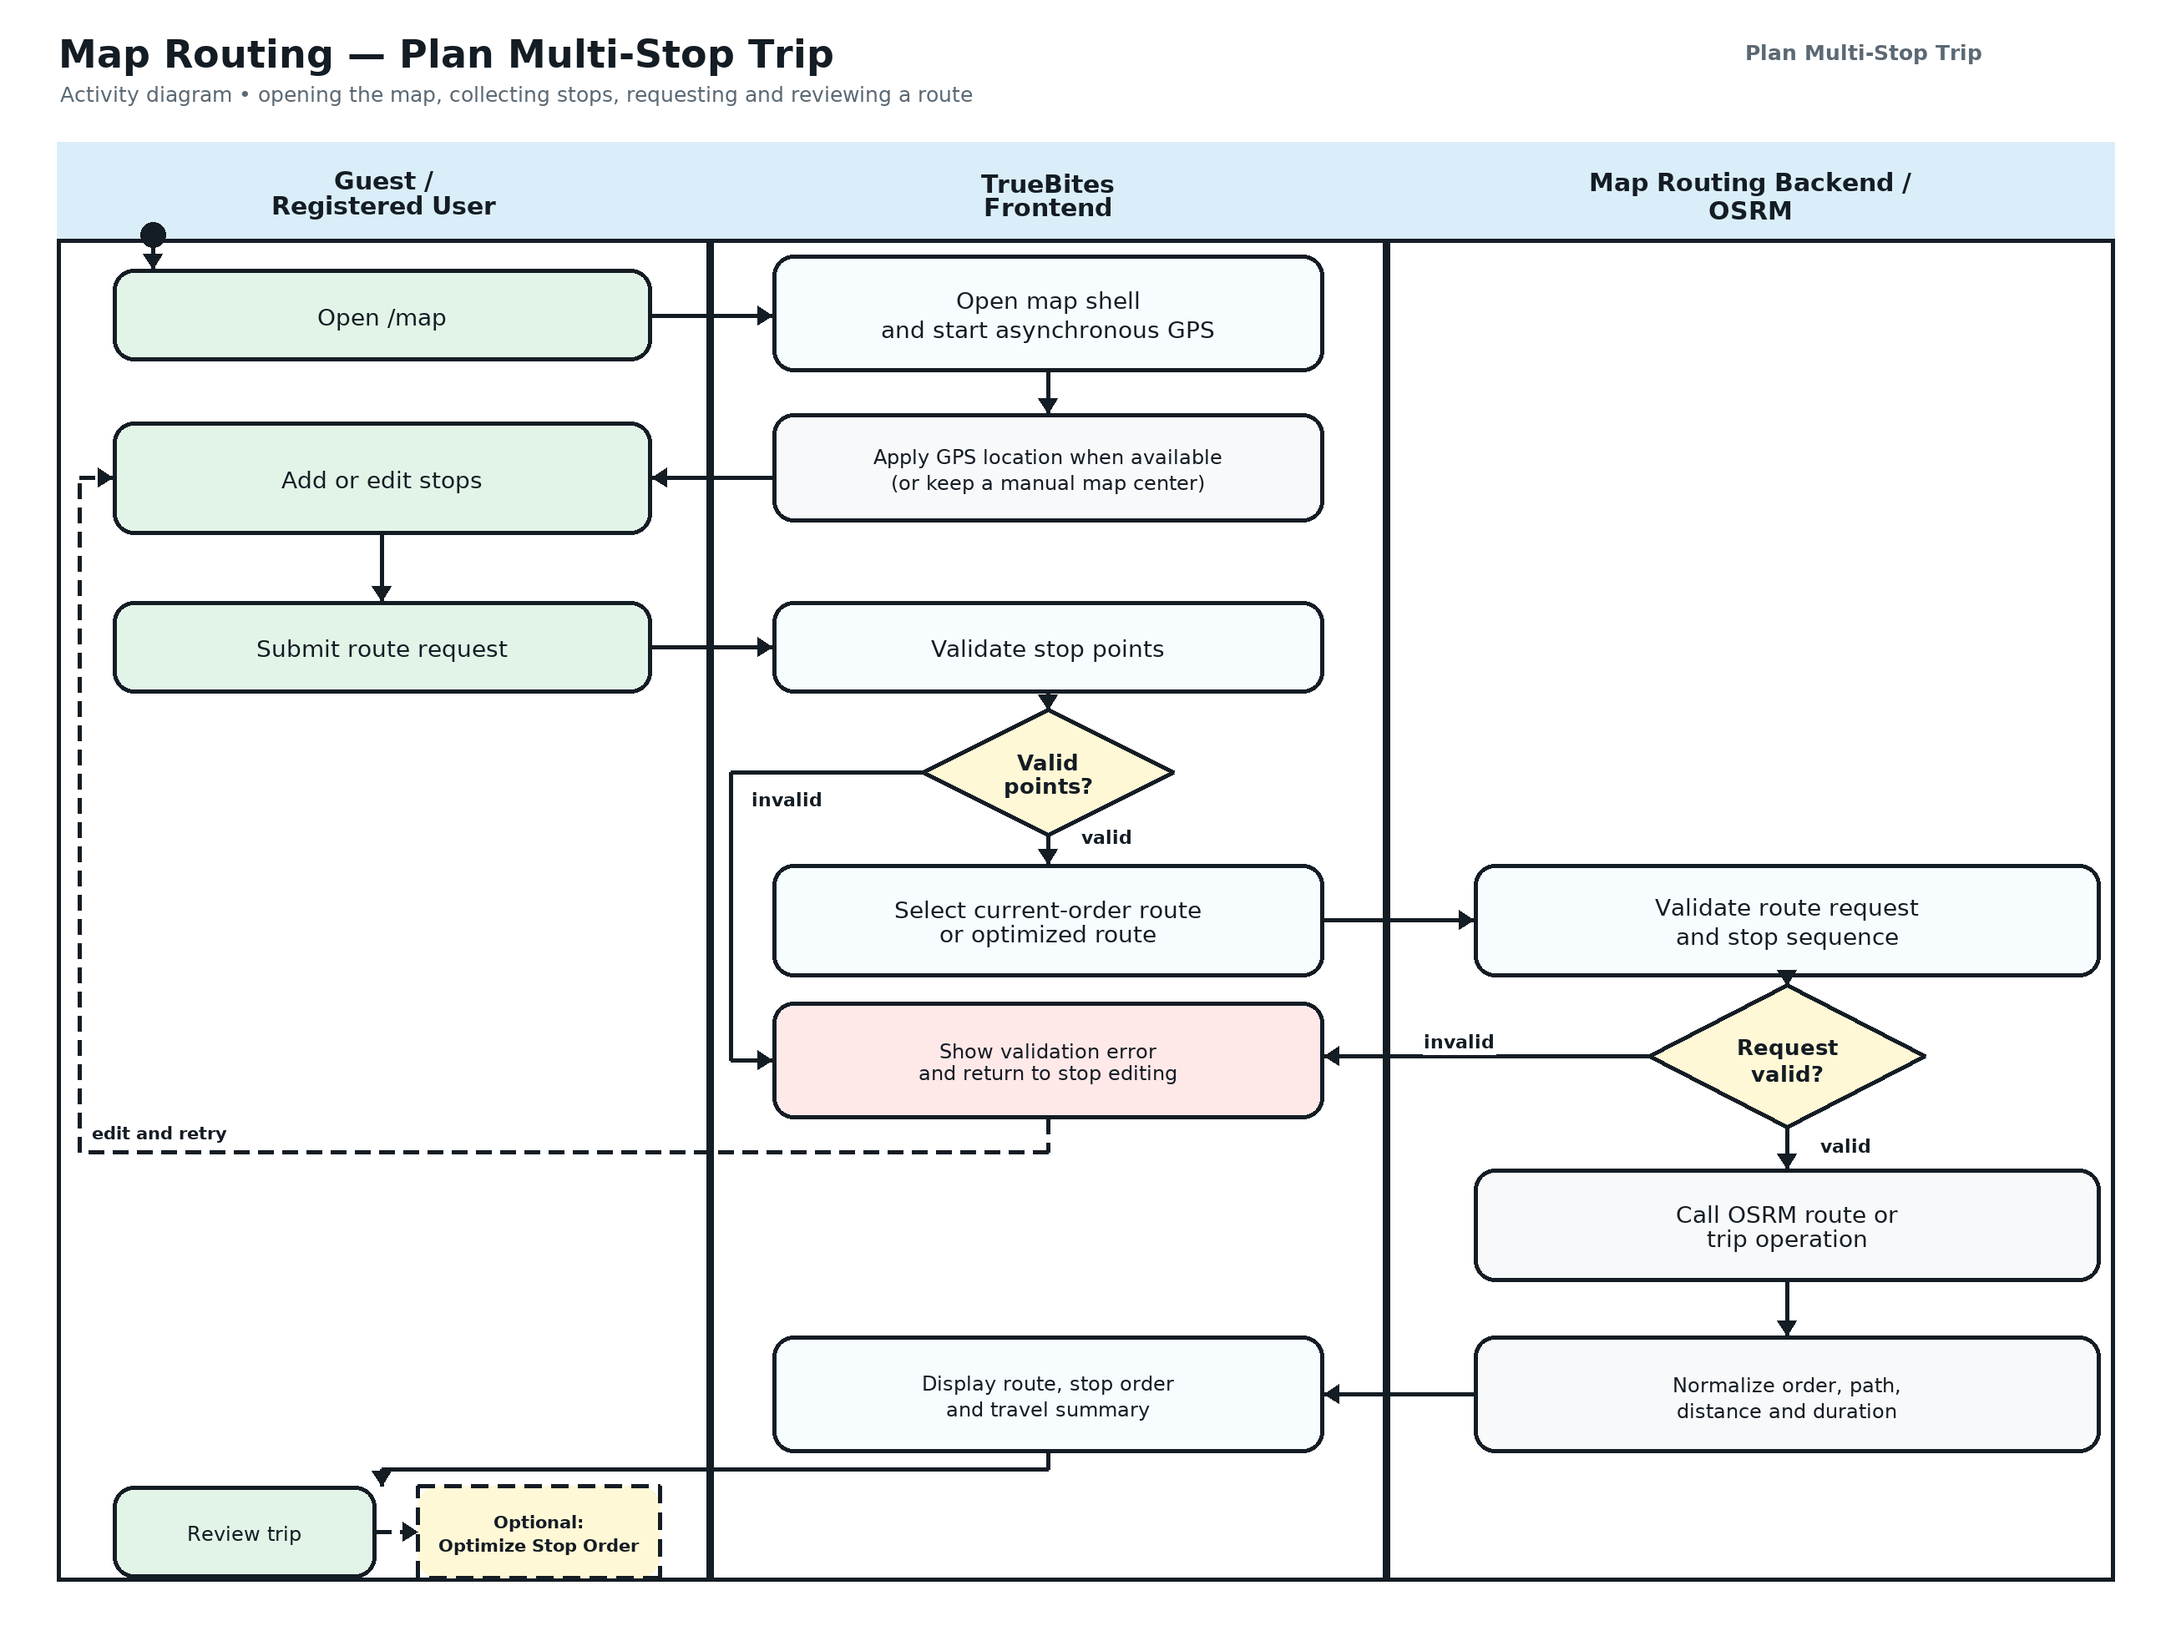
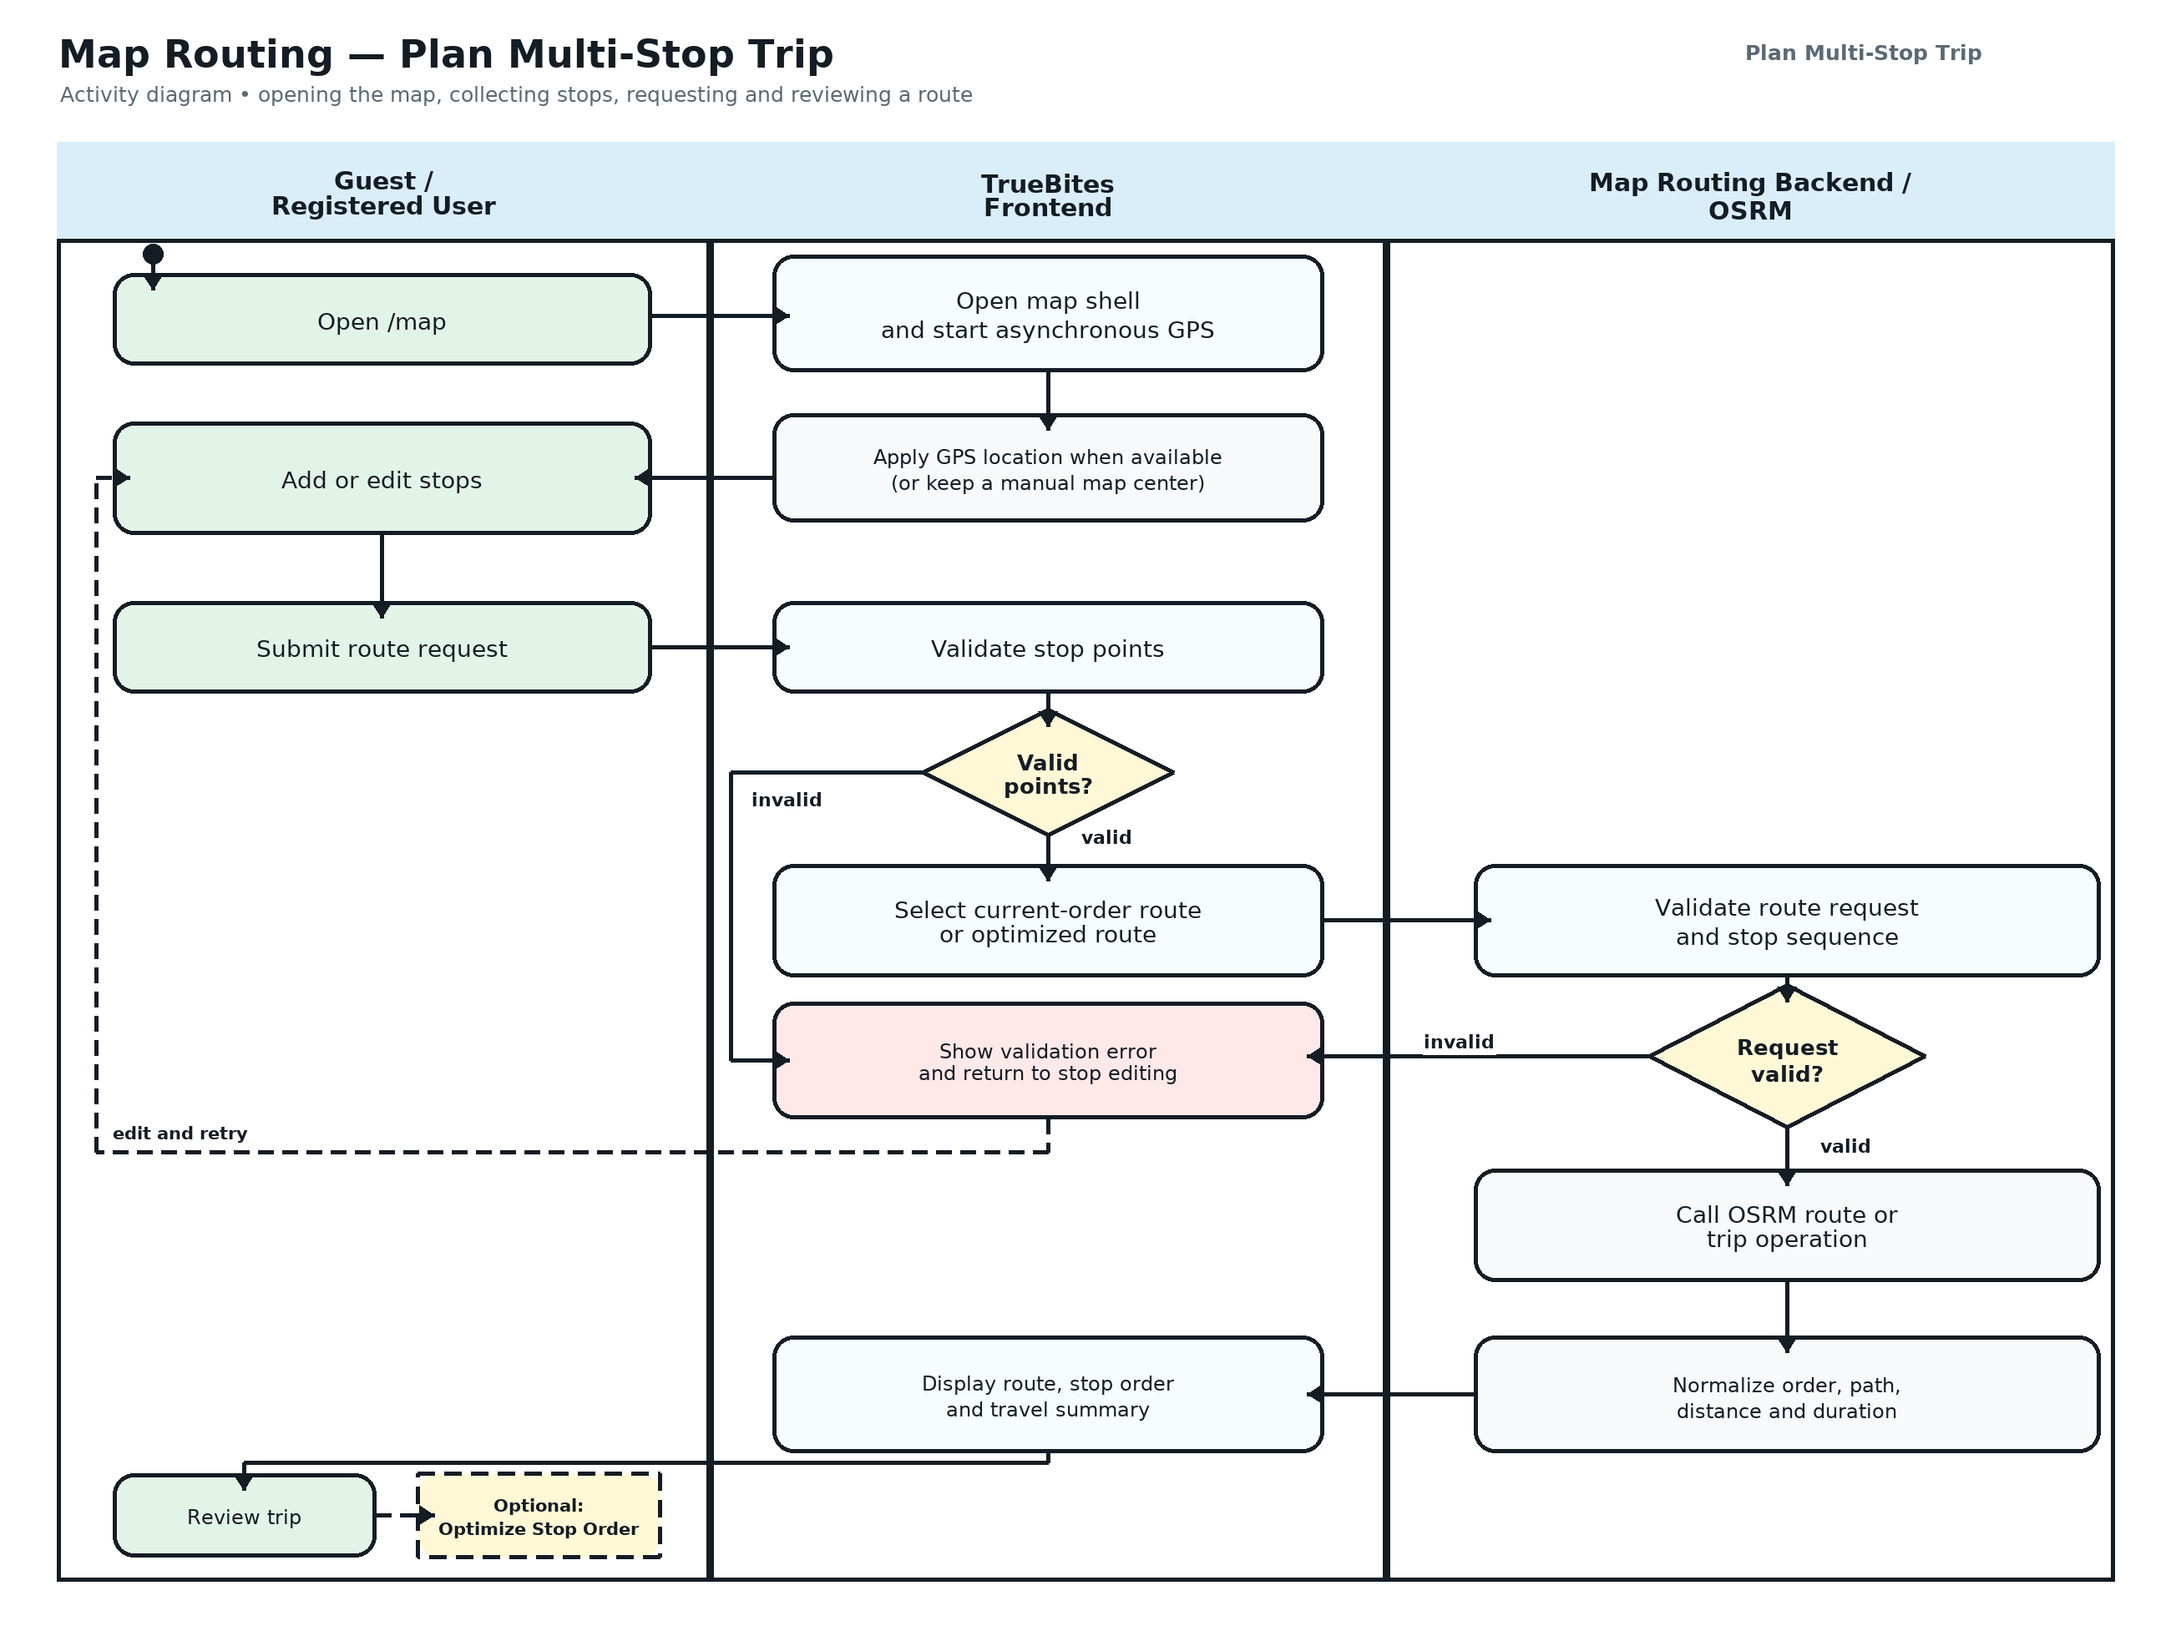
fix: keep activity arrows inside nodes

diff --git a/scripts/render_map_routing_uml.py b/scripts/render_map_routing_uml.py
@@ -34,6 +34,7 @@ BOX_GREY = (247, 249, 250)
 
 STROKE = 5
 THIN_STROKE = 3
+ARROW_INSET = 20
 
 
 def _font_candidates(filename: str) -> Iterable[Path]:
@@ -276,6 +277,36 @@ def draw_polyline_arrow(
         draw_arrow_head(draw, points[-2], points[-1], fill=fill, size=arrow_size)
 
 
+def inset_arrow_tip(
+    points: Sequence[tuple[float, float]],
+    distance: float = ARROW_INSET,
+) -> list[tuple[float, float]]:
+    """Advance the tip so the complete arrowhead sits inside its target node."""
+
+    adjusted = list(points)
+    if len(adjusted) < 2 or distance == 0:
+        return adjusted
+    previous = adjusted[-2]
+    tip = adjusted[-1]
+    length = math.hypot(tip[0] - previous[0], tip[1] - previous[1])
+    if length == 0:
+        return adjusted
+    ux = (tip[0] - previous[0]) / length
+    uy = (tip[1] - previous[1]) / length
+    adjusted[-1] = (tip[0] + ux * distance, tip[1] + uy * distance)
+    return adjusted
+
+
+def draw_activity_arrow(
+    draw: ImageDraw.ImageDraw,
+    points: Sequence[tuple[float, float]],
+    **kwargs: object,
+) -> None:
+    """Draw activity control flow with its arrowhead fully inside the target."""
+
+    draw_polyline_arrow(draw, inset_arrow_tip(points), **kwargs)
+
+
 def draw_label_on_line(
     draw: ImageDraw.ImageDraw,
     position: tuple[int, int],
@@ -415,15 +446,15 @@ def plan_activity_routes() -> dict[str, list[tuple[int, int]]]:
         "backend_invalid_to_error": [(1975, 1265), (1585, 1265)],
         "display_to_review": [
             (1255, 1740),
-            (1255, 1760),
-            (457, 1760),
-            (457, 1780),
+            (1255, 1752),
+            (292, 1752),
+            (292, 1765),
         ],
         "validation_error_retry": [
             (1255, 1340),
             (1255, 1380),
-            (95, 1380),
-            (95, 572),
+            (115, 1380),
+            (115, 572),
             (135, 572),
         ],
     }
@@ -446,13 +477,14 @@ def optimize_activity_routes() -> dict[str, list[tuple[int, int]]]:
             (820, 620),
             (820, 480),
             (457, 480),
-            (457, 455),
+            (457, 460),
         ],
         "processing_failure_to_return": [
-            (1585, 1055),
-            (1600, 1055),
-            (1600, 1760),
-            (780, 1760),
+            (1255, 1125),
+            (1255, 1160),
+            (95, 1160),
+            (95, 1760),
+            (135, 1760),
         ],
     }
 
@@ -518,7 +550,7 @@ def render_plan_activity() -> Path:
     decision_font = load_font(26, bold=True)
 
     # Activities and decisions are placed entirely inside their responsible lanes.
-    open_map = rounded_activity(draw, (135, 322, 780, 432), "Open /map", fill=PALE_GREEN, font=box_font)
+    open_map = rounded_activity(draw, (135, 327, 780, 437), "Open /map", fill=PALE_GREEN, font=box_font)
     open_shell = rounded_activity(
         draw,
         (925, 305, 1585, 445),
@@ -595,14 +627,14 @@ def render_plan_activity() -> Path:
     )
     review = rounded_activity(
         draw,
-        (135, 1780, 450, 1890),
+        (135, 1765, 450, 1865),
         "Review trip",
         fill=PALE_GREEN,
         font=small_font,
     )
     optimize_optional = rounded_activity(
         draw,
-        (500, 1780, 790, 1890),
+        (500, 1765, 790, 1865),
         "Optional:\nOptimize Stop Order",
         fill=PALE_YELLOW,
         font=load_font(21, bold=True),
@@ -610,37 +642,37 @@ def render_plan_activity() -> Path:
     )
 
     # Start marker and control-flow arrows are routed through open gutters.
-    draw.ellipse((168, 266, 198, 296), fill=BLACK)
-    draw_polyline_arrow(draw, [(183, 296), (183, 322)], width=STROKE)
-    draw_polyline_arrow(draw, [(780, 378), (925, 378)], width=STROKE)
-    draw_polyline_arrow(draw, [(1255, 445), (1255, 495)], width=STROKE)
-    draw_polyline_arrow(draw, routes["gps_to_edit"], width=STROKE)
-    draw_polyline_arrow(draw, [(457, 640), (457, 720)], width=STROKE)
-    draw_polyline_arrow(draw, [(780, 775), (925, 775)], width=STROKE)
-    draw_polyline_arrow(draw, [(1255, 830), (1255, 850)], width=STROKE)
+    draw.ellipse((171, 292, 195, 316), fill=BLACK)
+    draw_activity_arrow(draw, [(183, 316), (183, 327)], width=STROKE)
+    draw_activity_arrow(draw, [(780, 378), (925, 378)], width=STROKE)
+    draw_activity_arrow(draw, [(1255, 445), (1255, 495)], width=STROKE)
+    draw_activity_arrow(draw, routes["gps_to_edit"], width=STROKE)
+    draw_activity_arrow(draw, [(457, 640), (457, 720)], width=STROKE)
+    draw_activity_arrow(draw, [(780, 775), (925, 775)], width=STROKE)
+    draw_activity_arrow(draw, [(1255, 830), (1255, 850)], width=STROKE)
     draw_label_on_line(draw, (1295, 990), "valid", font=load_font(22, bold=True))
-    draw_polyline_arrow(draw, [(1105, 925), (875, 925), (875, 1270), (925, 1270)], width=STROKE)
+    draw_activity_arrow(draw, [(1105, 925), (875, 925), (875, 1270), (925, 1270)], width=STROKE)
     draw_label_on_line(draw, (900, 945), "invalid", font=load_font(22, bold=True))
-    draw_polyline_arrow(draw, [(1255, 1000), (1255, 1035)], width=STROKE)
-    draw_polyline_arrow(draw, [(1585, 1102), (1765, 1102)], width=STROKE)
-    draw_polyline_arrow(draw, [(2140, 1170), (2140, 1180)], width=STROKE)
-    draw_polyline_arrow(draw, routes["backend_invalid_to_error"], width=STROKE)
+    draw_activity_arrow(draw, [(1255, 1000), (1255, 1035)], width=STROKE)
+    draw_activity_arrow(draw, [(1585, 1102), (1765, 1102)], width=STROKE)
+    draw_activity_arrow(draw, [(2140, 1170), (2140, 1180)], width=STROKE)
+    draw_activity_arrow(draw, routes["backend_invalid_to_error"], width=STROKE)
     draw_label_on_line(draw, (1705, 1235), "invalid", font=load_font(22, bold=True))
-    draw_polyline_arrow(draw, [(2140, 1350), (2140, 1400)], width=STROKE)
+    draw_activity_arrow(draw, [(2140, 1350), (2140, 1400)], width=STROKE)
     draw_label_on_line(draw, (2180, 1360), "valid", font=load_font(22, bold=True))
-    draw_polyline_arrow(draw, [(2140, 1535), (2140, 1600)], width=STROKE)
-    draw_polyline_arrow(draw, [(1765, 1670), (1585, 1670)], width=STROKE)
-    draw_polyline_arrow(draw, routes["display_to_review"], width=STROKE)
-    draw_polyline_arrow(draw, [(450, 1835), (500, 1835)], dashed=True, width=STROKE)
+    draw_activity_arrow(draw, [(2140, 1535), (2140, 1600)], width=STROKE)
+    draw_activity_arrow(draw, [(1765, 1670), (1585, 1670)], width=STROKE)
+    draw_activity_arrow(draw, routes["display_to_review"], width=STROKE)
+    draw_activity_arrow(draw, [(450, 1815), (500, 1815)], dashed=True, width=STROKE)
 
     # The retry loop uses the empty lower gutter and returns along the far-left margin.
-    draw_polyline_arrow(
+    draw_activity_arrow(
         draw,
         routes["validation_error_retry"],
         dashed=True,
         width=STROKE,
     )
-    draw_label_on_line(draw, (110, 1345), "edit and retry", font=load_font(21, bold=True))
+    draw_label_on_line(draw, (135, 1345), "edit and retry", font=load_font(21, bold=True))
 
     path = OUTPUT_DIR / "map-routing-activity-plan-trip.png"
     image.save(path, format="PNG", optimize=False, compress_level=9)
@@ -660,7 +692,7 @@ def render_optimize_activity() -> Path:
 
     request = rounded_activity(
         draw,
-        (135, 322, 780, 455),
+        (135, 327, 780, 460),
         "Explicitly request\n“Suggest Best Order”",
         fill=PALE_GREEN,
         font=box_font,
@@ -729,34 +761,34 @@ def render_optimize_activity() -> Path:
         font=box_font,
     )
 
-    draw.ellipse((168, 266, 198, 296), fill=BLACK)
-    draw_polyline_arrow(draw, [(183, 296), (183, 322)], width=STROKE)
-    draw_polyline_arrow(draw, [(780, 388), (925, 388)], width=STROKE)
-    draw_polyline_arrow(draw, [(1585, 388), (1765, 388)], width=STROKE)
-    draw_polyline_arrow(draw, [(2140, 455), (2140, 530)], width=STROKE)
-    draw_polyline_arrow(draw, routes["validation_invalid_to_error"], width=STROKE)
+    draw.ellipse((171, 292, 195, 316), fill=BLACK)
+    draw_activity_arrow(draw, [(183, 316), (183, 327)], width=STROKE)
+    draw_activity_arrow(draw, [(780, 388), (925, 388)], width=STROKE)
+    draw_activity_arrow(draw, [(1585, 388), (1765, 388)], width=STROKE)
+    draw_activity_arrow(draw, [(2140, 455), (2140, 530)], width=STROKE)
+    draw_activity_arrow(draw, routes["validation_invalid_to_error"], width=STROKE)
     draw_label_on_line(draw, (1690, 585), "invalid", font=load_font(22, bold=True))
-    draw_polyline_arrow(draw, [(2140, 700), (2140, 760)], width=STROKE)
+    draw_activity_arrow(draw, [(2140, 700), (2140, 760)], width=STROKE)
     draw_label_on_line(draw, (2180, 718), "valid", font=load_font(22, bold=True))
-    draw_polyline_arrow(draw, [(2140, 900), (2140, 970)], width=STROKE)
-    draw_polyline_arrow(draw, routes["osrm_failure_to_error"], width=STROKE)
+    draw_activity_arrow(draw, [(2140, 900), (2140, 970)], width=STROKE)
+    draw_activity_arrow(draw, routes["osrm_failure_to_error"], width=STROKE)
     draw_label_on_line(draw, (1690, 1025), "failure", font=load_font(22, bold=True))
-    draw_polyline_arrow(draw, [(2140, 1140), (2140, 1200)], width=STROKE)
+    draw_activity_arrow(draw, [(2140, 1140), (2140, 1200)], width=STROKE)
     draw_label_on_line(draw, (2180, 1155), "success", font=load_font(22, bold=True))
-    draw_polyline_arrow(draw, [(1765, 1280), (1585, 1280)], width=STROKE)
-    draw_polyline_arrow(draw, routes["render_to_review"], width=STROKE)
-    draw_polyline_arrow(draw, [(455, 1590), (455, 1690)], width=STROKE)
+    draw_activity_arrow(draw, [(1765, 1280), (1585, 1280)], width=STROKE)
+    draw_activity_arrow(draw, routes["render_to_review"], width=STROKE)
+    draw_activity_arrow(draw, [(455, 1590), (455, 1690)], width=STROKE)
     draw_label_on_line(draw, (490, 1620), "return", font=load_font(22, bold=True))
 
     # Validation uses the local gap to retry; provider failure keeps the current
     # order and returns to the base use case through the open lower gutter.
-    draw_polyline_arrow(
+    draw_activity_arrow(
         draw,
         routes["validation_failure_retry"],
         dashed=True,
         width=STROKE,
     )
-    draw_polyline_arrow(
+    draw_activity_arrow(
         draw,
         routes["processing_failure_to_return"],
         width=STROKE,

diff --git a/tests/test_render_map_routing_uml.py b/tests/test_render_map_routing_uml.py
@@ -1,6 +1,8 @@
 import unittest
 
 from scripts.render_map_routing_uml import (
+    ARROW_INSET,
+    inset_arrow_tip,
     optimize_activity_routes,
     plan_activity_routes,
 )
@@ -27,10 +29,10 @@ class ActivityRouteLayoutTests(unittest.TestCase):
             [(1975, 1265), (1585, 1265)],
         )
 
-    def test_plan_review_flow_avoids_lane_dividers_and_enters_box_from_top(self):
+    def test_plan_review_flow_targets_the_actual_review_box_center(self):
         route = plan_activity_routes()["display_to_review"]
 
-        self.assertEqual(route[-1], (457, 1780))
+        self.assertEqual(route[-1], (292, 1765))
         self.assertTrue(
             all(start[0] not in LANE_DIVIDERS for start, _ in vertical_segments(route))
         )
@@ -41,7 +43,8 @@ class ActivityRouteLayoutTests(unittest.TestCase):
         self.assertEqual(route[0], (1255, 1340))
         self.assertEqual(route[-1], (135, 572))
         self.assertIn((1255, 1380), route)
-        self.assertIn((95, 1380), route)
+        self.assertIn((115, 1380), route)
+        self.assertIn((115, 572), route)
 
     def test_optimize_review_flow_enters_box_from_top_center(self):
         route = optimize_activity_routes()["render_to_review"]
@@ -68,17 +71,35 @@ class ActivityRouteLayoutTests(unittest.TestCase):
         validation = routes["validation_failure_retry"]
 
         self.assertEqual(validation[0], (925, 620))
-        self.assertEqual(validation[-1], (457, 455))
+        self.assertEqual(validation[-1], (457, 460))
         self.assertIn((820, 480), validation)
 
     def test_optimize_processing_failure_returns_without_crossing_success_flow(self):
         route = optimize_activity_routes()["processing_failure_to_return"]
 
-        self.assertEqual(route[0], (1585, 1055))
-        self.assertEqual(route[-1], (780, 1760))
-        self.assertIn((1600, 1760), route)
+        self.assertEqual(route[0], (1255, 1125))
+        self.assertEqual(route[-1], (135, 1760))
+        self.assertIn((1255, 1160), route)
+        self.assertIn((95, 1160), route)
+        self.assertIn((95, 1760), route)
         self.assertTrue(
             all(start[0] not in LANE_DIVIDERS for start, _ in vertical_segments(route))
+        )
+
+    def test_arrow_tip_is_advanced_one_full_head_inside_the_target(self):
+        route = [(100, 100), (200, 100)]
+
+        self.assertEqual(
+            inset_arrow_tip(route, ARROW_INSET),
+            [(100, 100), (200 + ARROW_INSET, 100)],
+        )
+
+    def test_arrow_tip_inset_preserves_the_final_segment_direction(self):
+        route = [(100, 200), (100, 100)]
+
+        self.assertEqual(
+            inset_arrow_tip(route, ARROW_INSET),
+            [(100, 200), (100, 100 - ARROW_INSET)],
         )
 
 
